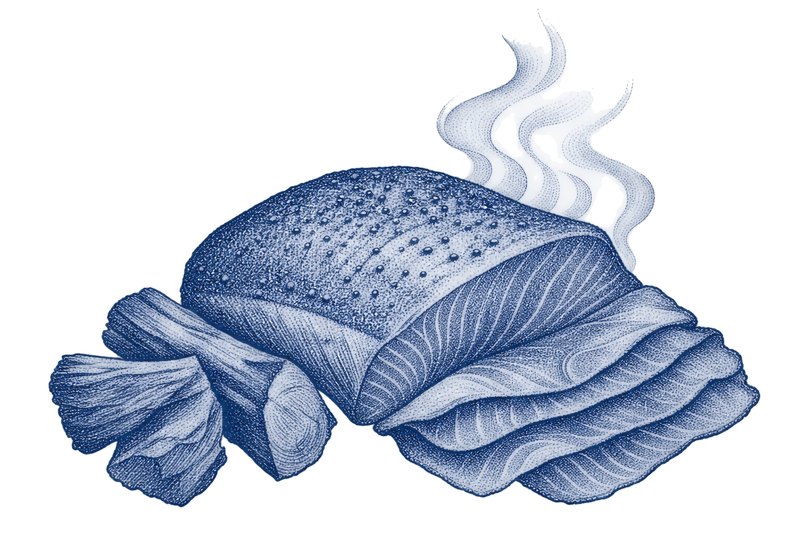
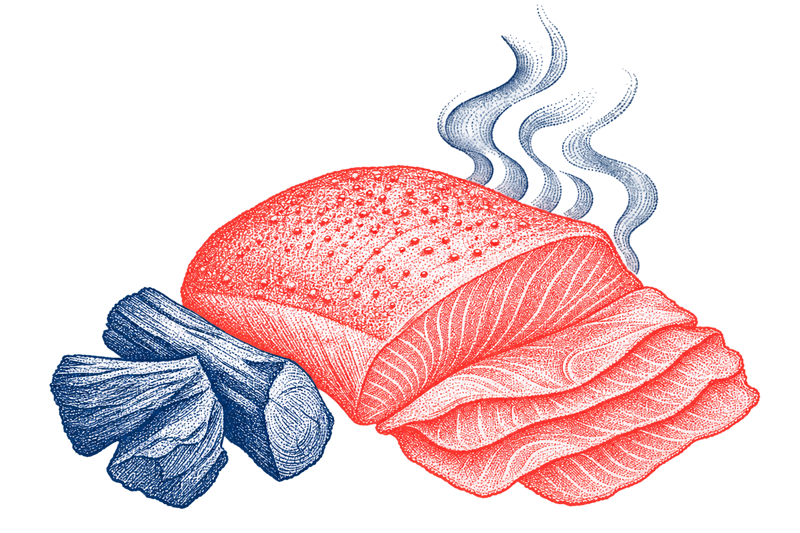
Productos: nueva ilustración de Ahumado en Soluciones para cada mercado

diff --git a/design-system/changelog.md b/design-system/changelog.md
@@ -4,6 +4,9 @@ Registro de cambios del kit (tokens, estilos de texto y componentes). Cada entra
 
 Formato: `AAAA-MM-DD · [Figma ✓/pendiente] [Código ✓/pendiente] · descripción`
 
+## 2026-10-26 · Nueva ilustración de Ahumado
+- Código ✓ · Productos › Soluciones para cada mercado: la ilustración del paso Ahumado se reemplaza por la nueva (Ahumado_2), convertida a WebP sin pérdida de 800 px en el mismo archivo `assets/img/ahumado.webp`.
+
 ## 2026-10-26 · Año del acordeón más grueso
 - Figma pendiente · Código ✓ · Token nuevo `--text-figure-regular-weight: 400` (Cifra regular). El año del acordeón de documentos (Centro de Resultados y kit) pasa de Sora 300 a Sora 400.
 
